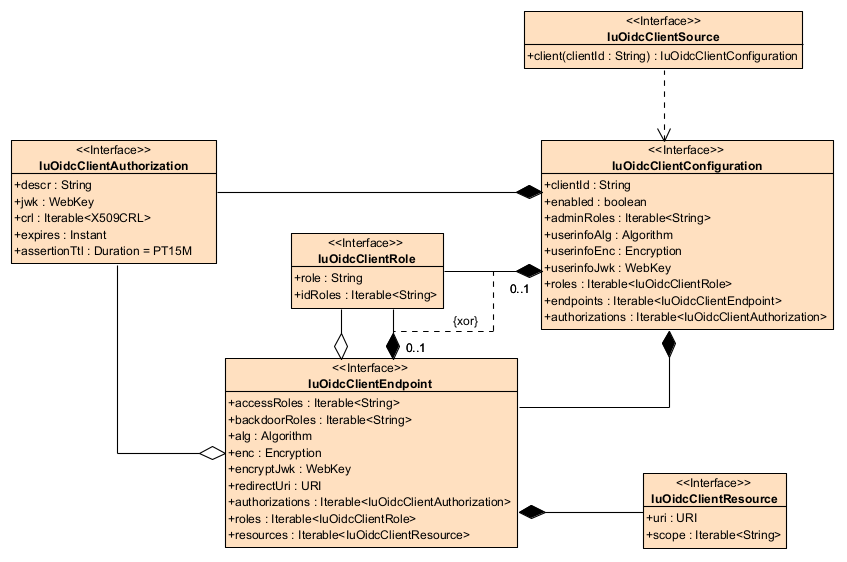
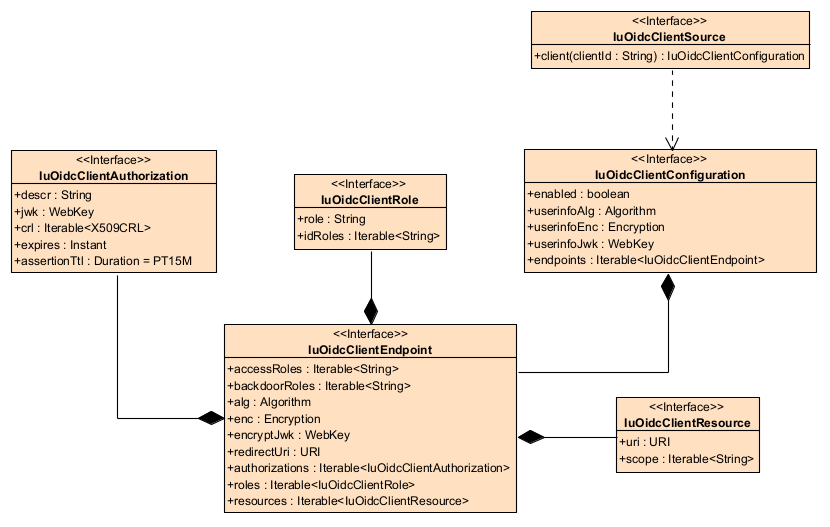
STARCH-1084 SISJEE OIDC provider final review

Changed region(s): [[0.0, 0.2125, 0.994, 1.0], [0.6024, 0.0, 0.994, 0.1518]]

diff --git a/client/src/main/java/edu/iu/client/RemoteInvocationHandler.java b/client/src/main/java/edu/iu/client/RemoteInvocationHandler.java
@@ -31,6 +31,7 @@
  */
 package edu.iu.client;
 
+import java.io.IOException;
 import java.lang.reflect.InvocationHandler;
 import java.lang.reflect.Method;
 import java.lang.reflect.Type;
@@ -64,7 +65,7 @@ import edu.iu.UnsafeConsumer;
  *
  * <p>
  * Subclasses customize the request by supplying a {@link #uri(Method)}, adding
- * authorization in {@link #authorize(HttpRequest.Builder)}, and optionally
+ * authorization in {@link #authorize(URI, HttpRequest.Builder)}, and optionally
  * overriding serialization, key creation, payload generation, cache policy, or
  * {@link #captureContext() context forwarding}. When caller-specific state can
  * affect a response, override {@link #cacheKey(Method, Object)} to include that
@@ -277,9 +278,11 @@ public abstract class RemoteInvocationHandler implements InvocationHandler, Auto
 	/**
 	 * Adds authorization headers to a pending remote call request
 	 * 
+	 * @param requestUri     remote call URI
 	 * @param requestBuilder pending remote call request
+	 * @throws IOException if an I/O error occurs during authorization
 	 */
-	protected abstract void authorize(HttpRequest.Builder requestBuilder);
+	protected abstract void authorize(URI requestUri, HttpRequest.Builder requestBuilder) throws IOException;
 
 	/**
 	 * Converts arguments to serialized form, for use as part of the cache key and
@@ -423,17 +426,18 @@ public abstract class RemoteInvocationHandler implements InvocationHandler, Auto
 	 * @throws Exception if the remote invocation fails
 	 */
 	protected Object doInvoke(Method method, Object serializedArgs) throws Exception {
-		final UnsafeConsumer<HttpRequest.Builder> request = builder -> {
-			authorize(builder);
-			payload(builder, method, serializedArgs);
-		};
-
 		try {
+			final var uri = uri(method);
+			final UnsafeConsumer<HttpRequest.Builder> request = builder -> {
+				authorize(uri, builder);
+				payload(builder, method, serializedArgs);
+			};
+
 			final var type = method.getGenericReturnType();
 			if (type == void.class)
-				return IuHttp.send(uri(method), request, IuHttp.NO_CONTENT);
+				return IuHttp.send(uri, request, IuHttp.NO_CONTENT);
 			else {
-				final var responseJson = IuHttp.send(uri(method), request, IuHttp.READ_JSON);
+				final var responseJson = IuHttp.send(uri, request, IuHttp.READ_JSON);
 				LOG.finer(() -> method + " " + responseJson);
 
 				return adapt(type).fromJson(responseJson);

diff --git a/config/src/test/java/edu/iu/config/IuConfigTest.java b/config/src/test/java/edu/iu/config/IuConfigTest.java
@@ -775,7 +775,7 @@ public class IuConfigTest {
 		final var result = mock(IuValidationResult.class);
 		when(result.isValid()).thenReturn(false);
 		try (final var mockIuValidator = mockStatic(IuValidator.class)) {
-			mockIuValidator.when(() -> IuValidator.validate(value)).thenReturn(result);
+			mockIuValidator.when(() -> IuValidator.validate(Access.class, value)).thenReturn(result);
 			assertThrows(IllegalStateException.class, () -> IuConfig.load(Access.class, key));
 		}
 	}
@@ -796,7 +796,7 @@ public class IuConfigTest {
 		final var result = mock(IuValidationResult.class);
 		when(result.isValid()).thenReturn(false);
 		try (final var mockIuValidator = mockStatic(IuValidator.class)) {
-			mockIuValidator.when(() -> IuValidator.validate(value)).thenReturn(result);
+			mockIuValidator.when(() -> IuValidator.validate(Access.class, value)).thenReturn(result);
 			IuTestLogger.expect(
 					IuConfig.class.getName(), Level.WARNING, "Config refresh failure for " + key + "!"
 							+ Access.class.getName() + ", will issue last known value until next refresh",

diff --git a/client/src/test/java/edu/iu/client/RemoteInvocationHandlerTest.java b/client/src/test/java/edu/iu/client/RemoteInvocationHandlerTest.java
@@ -86,7 +86,7 @@ public class RemoteInvocationHandlerTest extends IuHttpTestCase {
 		}
 
 		@Override
-		protected void authorize(HttpRequest.Builder requestBuilder) {
+		protected void authorize(URI requestUri, HttpRequest.Builder requestBuilder) {
 			authorization.accept(requestBuilder);
 		}
 
@@ -276,7 +276,7 @@ public class RemoteInvocationHandlerTest extends IuHttpTestCase {
 		}
 
 		@Override
-		protected void authorize(HttpRequest.Builder requestBuilder) {
+		protected void authorize(URI requestUri, HttpRequest.Builder requestBuilder) {
 		}
 
 		@Override
@@ -400,7 +400,7 @@ public class RemoteInvocationHandlerTest extends IuHttpTestCase {
 		final var callContext = new AtomicReference<ClassLoader>();
 		try (final var handler = new RemoteInvocationHandler() {
 			@Override
-			protected void authorize(HttpRequest.Builder requestBuilder) {
+			protected void authorize(URI requestUri, HttpRequest.Builder requestBuilder) {
 			}
 
 			@Override

diff --git a/oidc/config/src/main/java/edu/iu/oidc/config/IuOidcClientConfiguration.java b/oidc/config/src/main/java/edu/iu/oidc/config/IuOidcClientConfiguration.java
@@ -117,26 +117,4 @@ public interface IuOidcClientConfiguration {
 	 */
 	Iterable<? extends IuOidcClientEndpoint> getEndpoints();
 
-	/**
-	 * Iterates roles mapped for this client.
-	 *
-	 * @return mapped roles
-	 */
-	Iterable<? extends IuOidcClientRole> getRoles();
-
-	/**
-	 * Gets the authorization records this client owns.
-	 *
-	 * <p>
-	 * Each endpoint selects the ones it accepts through
-	 * {@link IuOidcClientEndpoint#getAuthorizations()}, and that selection is all a
-	 * provider endpoint reads. A record no endpoint selects &mdash; one staged for
-	 * rotation, say &mdash; still belongs to the client but authenticates nothing.
-	 * </p>
-	 *
-	 * @return owned authorization records; {@code null} or empty if the client owns
-	 *         none
-	 */
-	Iterable<? extends IuOidcClientAuthorization> getAuthorizations();
-
 }

diff --git a/oidc/config/src/main/java/edu/iu/oidc/config/IuOidcClientEndpoint.java b/oidc/config/src/main/java/edu/iu/oidc/config/IuOidcClientEndpoint.java
@@ -61,14 +61,6 @@ public interface IuOidcClientEndpoint {
 	 * itself at the token endpoint.
 	 *
 	 * <p>
-	 * Selected per endpoint from {@link IuOidcClientConfiguration#getAuthorizations()
-	 * the records the client owns}, so one deployment's key can be rotated or
-	 * revoked without disturbing another's. Every record named here <em>must</em>
-	 * be one of those: a record reached through another client's registration
-	 * would authenticate as that client too.
-	 * </p>
-	 *
-	 * <p>
 	 * More than one record may be registered; the first that accepts the presented
 	 * credential is used, which is what lets an old and a new credential both be
 	 * honored while one is being rotated in. An endpoint with no record at all

diff --git a/config/src/main/java/edu/iu/config/IuConfig.java b/config/src/main/java/edu/iu/config/IuConfig.java
@@ -178,7 +178,7 @@ public class IuConfig {
 					try {
 						final var resolvedValue = resolve(key);
 
-						final var validationResult = IuValidator.validate(resolvedValue);
+						final var validationResult = IuValidator.validate(type, resolvedValue);
 						if (!validationResult.isValid())
 							throw new IllegalStateException(
 									"Validation failed for " + key + "; " + validationResult.report());

diff --git a/oidc/config/README.md b/oidc/config/README.md
@@ -22,6 +22,10 @@ Every provider endpoint takes a single `iu.oidc.provider.IuOidcProviderReference
 
 Relying party registrations are read through `IuOidcClientSource`, which is equally mandatory; see [Client registration](#client-registration).
 
+### `IuOidcProviderConfiguration` — the provider itself
+
+Returned from `IuOidcProviderReference.getConfiguration()`, and the one binding with no default. `getMetadata()` is the discovery document, published verbatim; its `issuer` is the base URI every one of the provider's own endpoints is built from, so advertising an issuer the deployment isn't reachable at breaks authentication, not just discovery. `getJwks()` are the provider's signing keys, in preference order: a key's `alg` selects it, the first signing key is used when no algorithm is called for, and the signature algorithms discovery advertises are derived from them. Three lifetimes default and may be overridden: `authorization_code_time_to_live` (one minute), `access_token_time_to_live` (fifteen minutes), and `refresh_token_time_to_live` (twelve hours, which should not outlast the authentication it descends from).
+
 ### `IuOidcAuthenticatedPrincipal` — who authenticated
 
 Returned from `IuOidcProviderReference.getAuthenticatedPrincipal(IuRequestAttributes)`. Adapt whatever mechanism the deployment authenticates with; an `IuSamlPrincipal`, for example, supplies the first three properties one-to-one.
@@ -78,32 +82,38 @@ Client registration
 
 ![IuOidcClientSource and the registration it reads](doc/client-registration.png)
 
-`IuOidcClientSource.client(clientId)` reads one relying party's registration, whole. An `IuOidcClientConfiguration` owns everything a registration describes: its endpoints (one per redirect URI), its roles, and its authorization records. Each `IuOidcClientEndpoint` owns its resources, selects which of the client's authorization records it accepts, and either shares the client's roles or owns roles of its own — a role belongs to the client or to one endpoint, never both (`{xor}`).
+`IuOidcClientSource.client(clientId)` reads one relying party's registration, whole. An `IuOidcClientConfiguration` describes the client as a whole — whether it is enabled and how its UserInfo response is signed and encrypted — and owns its endpoints, one per redirect URI. Each `IuOidcClientEndpoint` owns everything that varies by redirect URI: the authorization records that authenticate it, its roles, and its resources. An endpoint owns zero or more of each, and each belongs to exactly one endpoint; the other end of every composition is implicitly one.
 
 ### Implementing `IuOidcClientSource`
 
 Answer `null`, or throw, for a client that isn't registered; the provider refuses both the same way, indistinguishably from a client that never existed. Every provider endpoint reads through the source on every request, so caching is the implementation's decision — but a failed lookup should not be cached, so a client registered a moment ago is found on the next request. A disabled client (`enabled` false) stays registered, and the authorization and token endpoints refuse it as though it weren't — no new code, token, or refresh. Access tokens already issued keep working until they expire: UserInfo, like any resource server, trusts a token this provider signed and does not re-check the registration. Disabling a client is therefore bounded by the access token lifetime (fifteen minutes by default), not immediate.
 
-Assemble the registration the way the provider reads it. The provider reaches authorization records and roles only through an endpoint: `IuOidcClientEndpoint.getAuthorizations()` authenticates the client, and `IuOidcClientEndpoint.getRoles()` is the only role mapping it consults. `IuOidcClientConfiguration.getAuthorizations()` and `IuOidcClientConfiguration.getRoles()` describe what the client owns; they are for whatever manages the registration, not for the provider.
+Assemble the registration the way the provider reads it. The provider reaches authorization records and roles only through an endpoint: `IuOidcClientEndpoint.getAuthorizations()` authenticates the client, and `IuOidcClientEndpoint.getRoles()` is the only role mapping it consults. The client configuration holds neither, so there is nothing to merge into an endpoint.
+
+The UserInfo settings belong to the client rather than an endpoint, because a UserInfo request presents an access token that names the client and no redirect URI to select an endpoint by. `userinfoAlg` defaults to `null`, which answers an unsigned claims document; `userinfoEnc` defaults to `null`, which answers an unencrypted one; `userinfoJwk` is the key an encrypted response is addressed to, required when `userinfoEnc` is set and unread otherwise.
+
+### Endpoint settings
+
+Each endpoint is selected by the `redirect_uri` an authorization request repeats exactly, and carries the settings that follow from that choice.
+
+- **Tokens.** `alg` signs, and `enc` with `encryptJwk` encrypts, the ID token issued to the endpoint.
+- **Resources.** The requested `resource` selects among `getResources()`, and the scopes the matching entries declare are what the request may ask for. The entry with no `uri` is the one a request naming no resource matches.
+- **Access.** `getAccessRoles()` names the identity roles that entitle an end user to a token from the endpoint at all. `null` or empty admits no one, and `ALL` admits anyone.
+- **Impersonation.** `getBackdoorRoles()` names the identity roles that entitle the holder of an `actor_token` to request another principal's token by RFC 8693 token exchange. `null` or empty refuses everyone, `ALL` opens it to anyone, and a production deployment refuses every exchange before reading it.
 
 ### Lifecycle
 
-Resources, endpoints, and endpoint-owned roles live and die with their parent, so a registration can be read, written, and versioned as one document. Authorization records and client-owned roles are also children of the client, but each endpoint relates to them differently, and that difference reaches every layer an implementation builds over this: its data store, its REST API, its management interface.
+Everything in a registration lives and dies with its parent: endpoints with their client, and authorization records, roles, and resources with their endpoint. A registration can therefore be read, written, and versioned as one document. Deleting an endpoint deletes what it owns, and nothing is shared between endpoints, so a change to one endpoint can never reach another.
 
-**Authorization records are owned by the client and selected by each endpoint.** Not every record reaches every endpoint.
+**Authorization records** are owned by the endpoint that lists them.
 
-- **Key.** An endpoint references a record rather than embedding it, so a record needs an identity scoped to its client — (client ID, authorization ID). The interface carries no ID; `descr` is a description, not a key. The management layer defines one.
-- **Same-client references only.** An endpoint may select only records its own client owns; a composite foreign key on (client ID, authorization ID) enforces it. This is a security boundary, not a convenience. The provider trusts a record because it reached it through the requesting client's own endpoints, so a record referenced from another client authenticates as that client too: a shared secret, because `client_secret_basic` and `client_secret_post` bind nothing but the secret; a shared key, because an assertion's `iss` and `sub` need only name the requested `client_id`; a shared certificate authority, because nothing binds a certificate's subject to a client.
-- **Unselected records.** A record no endpoint selects — one staged for rotation, or retained for history — still belongs to the client. `IuOidcClientConfiguration.getAuthorizations()` lists it; the provider never consults it.
-- **Deletion.** Deleting a client deletes its records. Deleting a record removes every endpoint's reference to it in the same transaction, or is refused while any remain. Removing a record from an endpoint deletes nothing.
-- **Rotation.** An endpoint tries its records in order, and the first that accepts the presented credential wins. Rotate by adding the new record, selecting it ahead of the old one on each endpoint that should honor it, and letting the old one reach `expires`. An expired record is skipped rather than refused, so rotation needs no change to the client itself.
+- **Public and closed endpoints.** An endpoint with no record accepts nothing, not even a public request with no credential. A record that carries no key is what registers an endpoint as public.
+- **Rotation.** An endpoint tries its records in order, and the first that accepts the presented credential wins. Rotate by adding the new record ahead of the old one on each endpoint that should honor it, and letting the old one reach `expires`. An expired record is skipped rather than refused, so rotation needs no change to the client itself.
 - **Revocation.** Takes effect when the client's cached registration does. Revoking or expiring a record invalidates that one client's cache entry.
-- **Governance.** `adminRoles` covers the client's records, since they are part of its registration.
-- **REST shape.** Records are a sub-collection of the client (for example `/clients/{id}/authorizations`) that endpoints link to by ID. Key material needs handling of its own: a secret is write-only, only public keys and certificates are ever returned, and every change is audited apart from edits to the client.
+- **Key material.** A credential honored by several endpoints is a record on each of them. An implementation that wants to manage one key in one place keeps its own identity for it and expands it per endpoint when it assembles the registration.
 
-**Roles are owned by the client and shared by every endpoint, or owned by one endpoint.**
+**Roles** are owned by the endpoint that lists them, and the endpoint's effective set is exactly `getRoles()`.
 
-- **Client roles reach the provider through the endpoints.** The provider consults only `IuOidcClientEndpoint.getRoles()`, so a source must include the client's roles in every endpoint's `getRoles()`, alongside that endpoint's own. A source that doesn't issues no `roles` claim for the client-level mappings, and nothing reports it.
-- **Every endpoint gets every client role.** Unlike authorization records, client roles are not selected per endpoint; an endpoint that needs a different mapping owns its own.
-- **Name collisions.** A client role and an endpoint role may share a `role` name with different `idRoles`. Both reach the endpoint's effective set, and the provider issues each match, so the `roles` claim can repeat a name. Reject duplicate names within an endpoint's effective set, or define which wins — the endpoint's own role over the client's, for example.
-- **Scope of a change.** Editing or deleting a client role changes every endpoint at once; an endpoint role goes when its endpoint does.
+- **No inheritance.** The client holds no roles, so a mapping common to several endpoints is repeated on each. An implementation that keeps client-wide mappings must expand them into every endpoint's `getRoles()`, since the provider reads nothing else.
+- **Name collisions.** The provider issues every matching role, so two roles in one endpoint sharing a `role` name with different `idRoles` repeat the name in the `roles` claim. Reject duplicate names within an endpoint, or define which wins.
+- **Scope of a change.** Editing a role changes one endpoint only.
